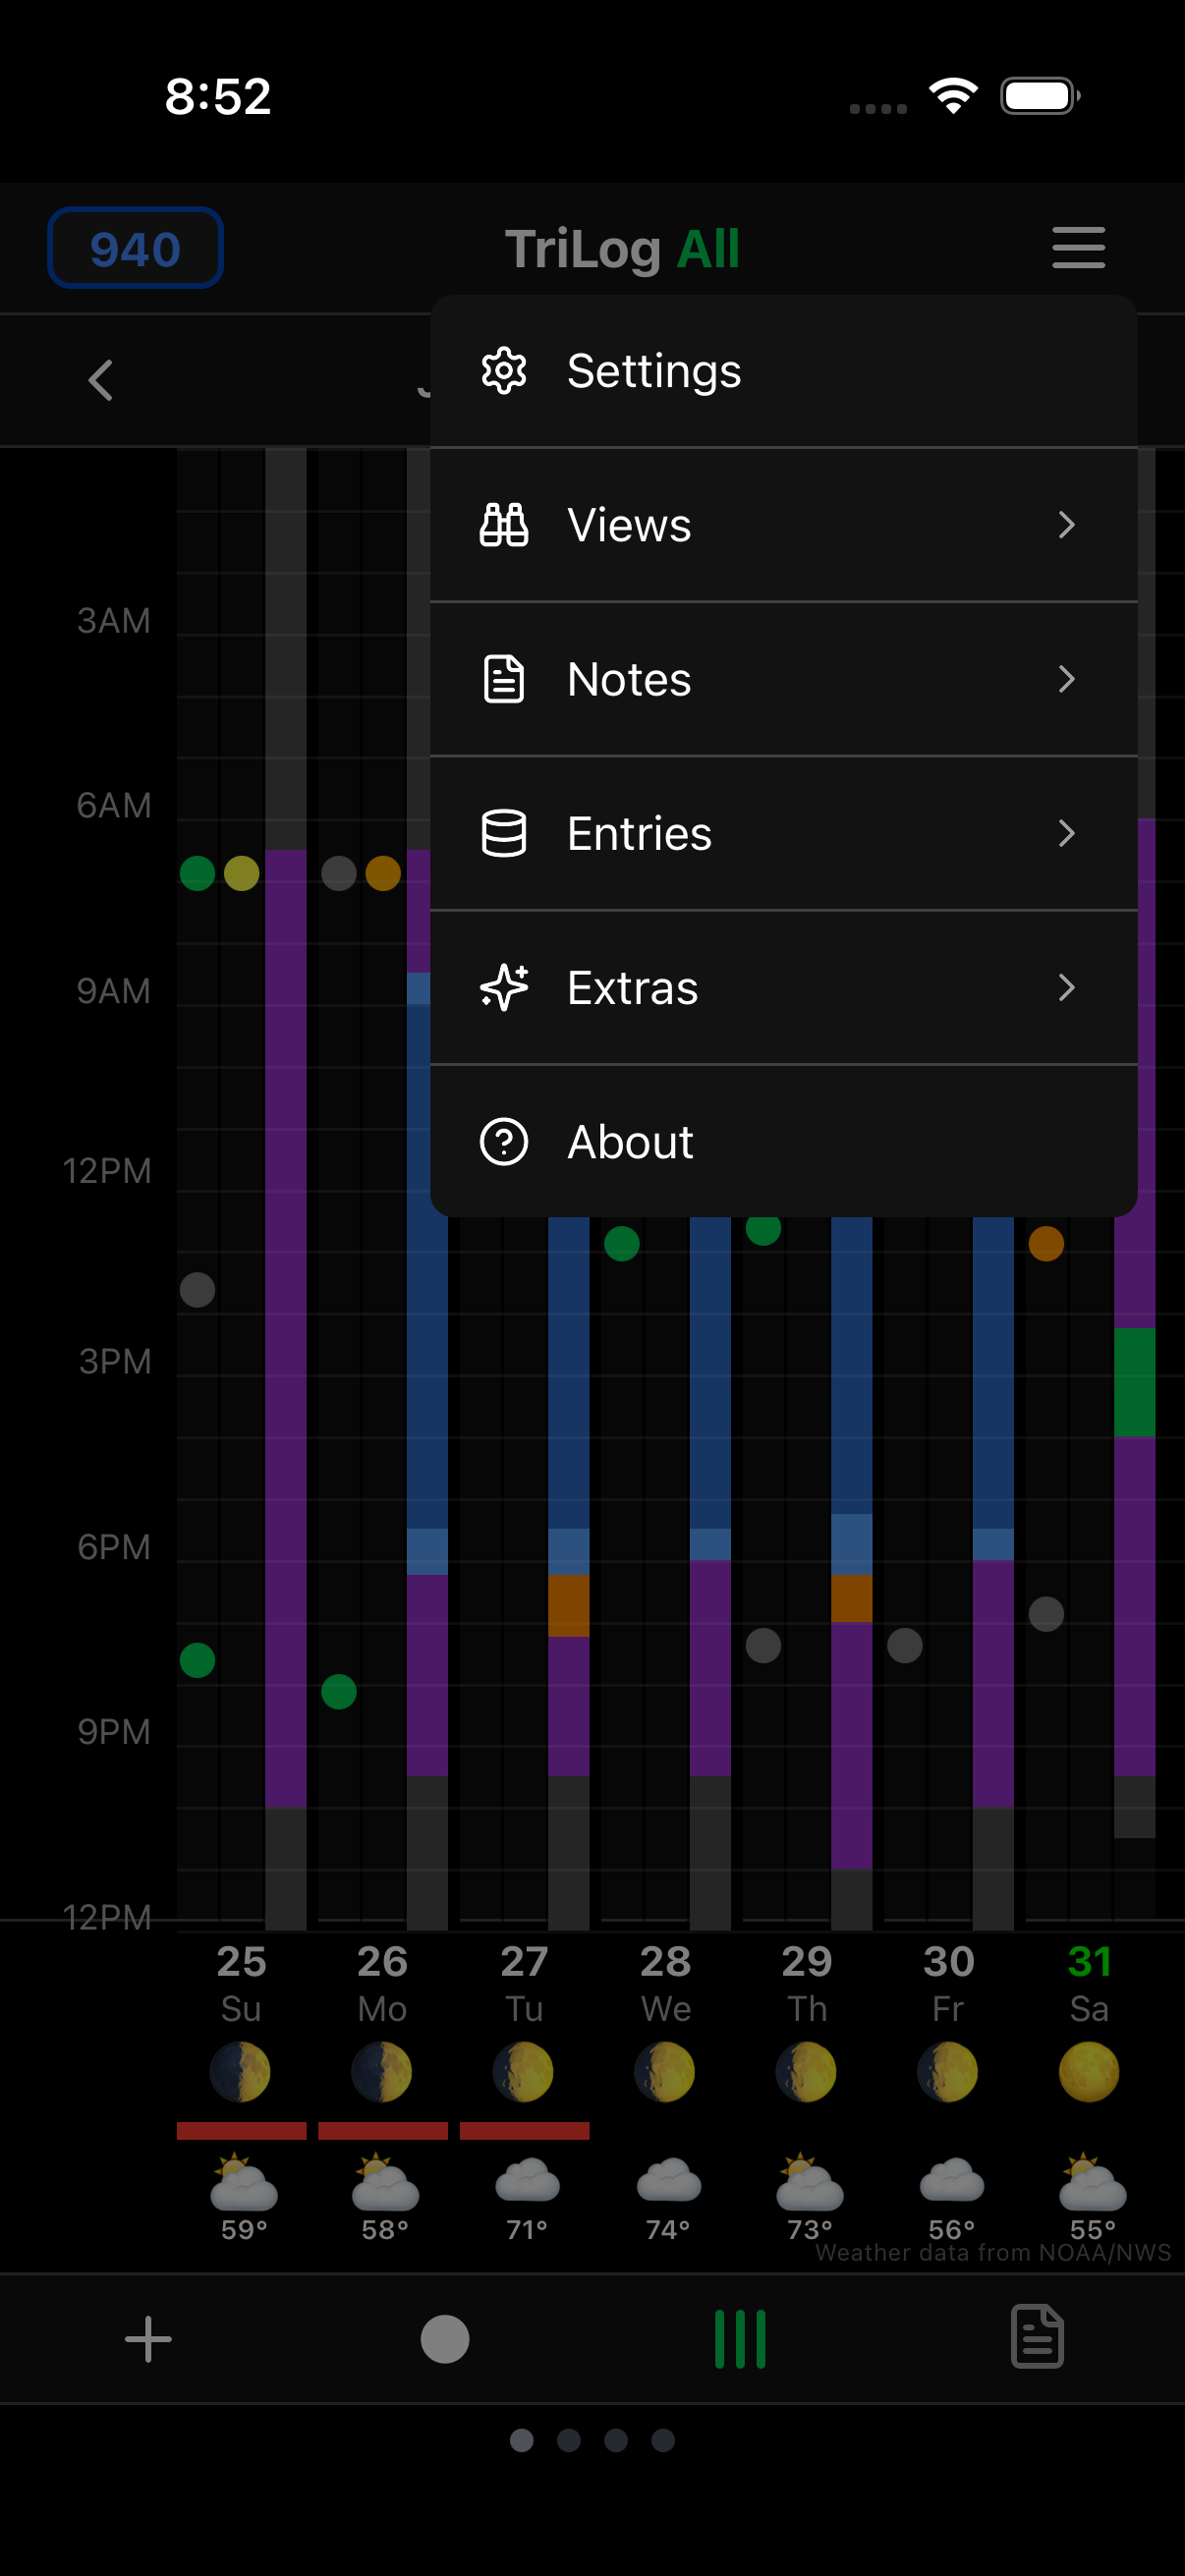
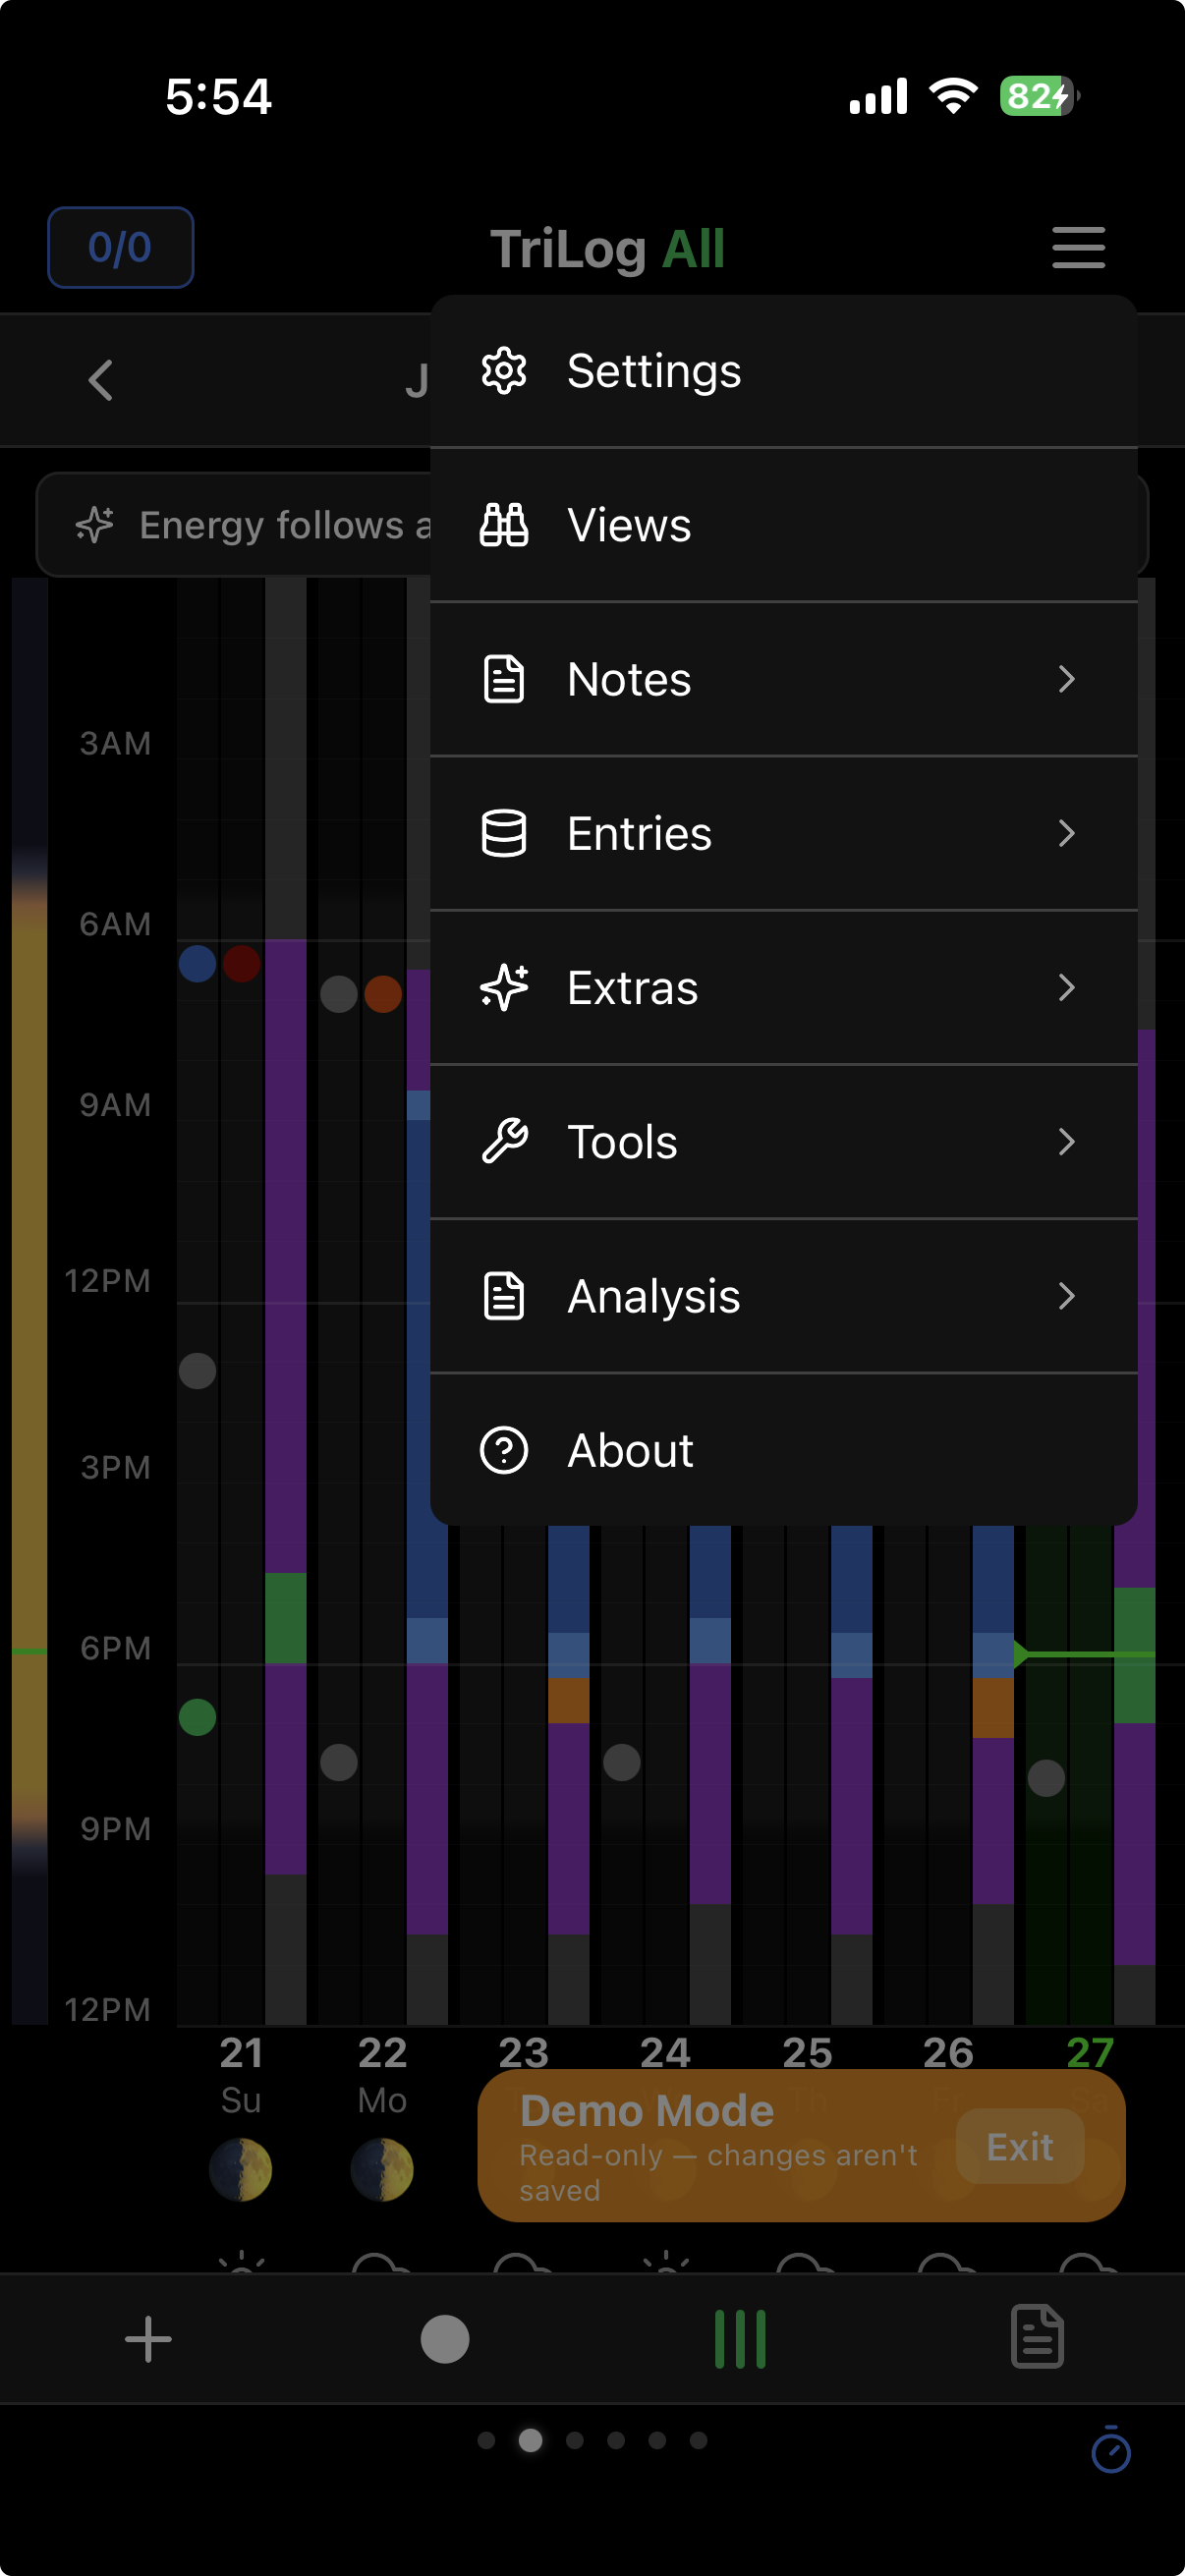
Document Analysis hub and refresh menu screenshots.
Charts and day ratings moved from swipe views to Menu → Analysis; add launcher, Patterns, Base Chart, and Day Ratings screenshots. Replace outdated app-menu image and remove superseded chart/ratings assets.

diff --git a/guide/viewing-patterns.md b/guide/viewing-patterns.md
@@ -34,80 +34,66 @@ Tap any row header to see that metric in more detail—a focused view showing ju
 
 ---
 
-## Charts View
+## Analysis
 
-Swipe further right to reach Charts. This view shows how you spend your time.
+Charts, auto-detected patterns, and deeper reports live in one place: **Menu → Analysis** (lines icon in the top-right, then **Analysis**). This replaced the old swipeable Charts and Ratings views.
 
-<img src="../images/charts.png" alt="Charts view" width="350">
+<img src="../images/analysis/analysis.png" alt="Analysis launcher with Basic and Advanced reports" width="350">
 
-### Activity Distribution
+The launcher lists reports as cards under **Basic** (free) and **Advanced** (Pro). Tap a card to open it; use the back arrow to return to the launcher.
 
-See how your time divides across activities:
-- Hours of sleep
-- Hours of work
-- Exercise time
-- Leisure time
-- And so on
+### Patterns
 
-The chart updates as you navigate between weeks.
+Auto-detected findings from your mood and energy history — weekly rhythms, time-of-day energy dips, mood/energy coupling, and similar. Surfaces after you have enough data; cards explain each pattern in plain language.
 
-### Chart Modes
+<img src="../images/analysis/patterns.png" alt="Patterns report with auto-detected findings" width="350">
 
-Toggle between different visualizations:
+### Base Chart
 
-**Bar Chart** — Activities as stacked or grouped bars
-**Pie Chart** — Activities as pie slices showing proportions
+Activity distribution and trends over time — stacked bar chart, mood/energy lines, and a **pie chart** showing how your hours actually divided across activities.
 
-<img src="../images/charts-pie.png" alt="Pie chart" width="350">
+<img src="../images/analysis/base-pie-chart.png" alt="Base Chart pie view of activity breakdown" width="350">
 
-### Time Periods
+Toggle between bar and pie modes. Switch between **7-day** and **21-day** windows (or navigate by week). Free.
 
-Switch between:
-- **7 days** — One week
-- **21 days** — Three weeks
+### Day Ratings Chart
 
-Longer periods show broader patterns; shorter periods show recent detail.
+Your daily subjective ratings — Mood, Energy, Thrive, and a calculated **Energy Events** score — as two side-by-side line charts, each covering four weeks (28 days, Sunday to Saturday).
 
----
-
-## Ratings Charts
-
-Swipe past Charts to reach Ratings Charts. This view shows your daily subjective ratings — Mood, Energy, Thrive, and a calculated Energy Events score — as two side-by-side line charts, each covering four weeks (28 days, Sunday to Saturday).
-
-### What You See
-
-Two vertical landscape charts:
-
-- **Left chart** — the older four-week period
-- **Right chart** — the more recent four-week period
-
-Each chart has a 0–5 y-axis on both sides, with day labels along the bottom.
-
-<img src="../images/ratings-all.png" alt="Ratings Charts with all ratings visible" width="400">
-
-### Four Toggles
-
-The bottom bar has two rows of toggles:
+**Four toggles** (two rows at the bottom):
 
 **Row 1:**
-- **Mood** — Stacked vertical bars per day, proportional to your mood distribution (upset, anxious, sad, neutral, happy). Each bar fills the full chart height so you can see the mood mix at a glance.
-- **Thrive** — Your daily "on" rating (1–5) — how present or aligned you felt. Shown as open green rings connected by a green line.
+- **Mood** — Stacked vertical bars per day, proportional to your mood distribution (upset, anxious, sad, neutral, happy).
+- **Thrive** — Your daily "on" rating (1–5) — how present or aligned you felt. Open green rings connected by a green line.
 
 **Row 2:**
-- **Day Energy** — The 1–5 energy rating you enter as a daily summary. Colored dots connected by a gray line, from dark red (1) to bright yellow (5).
-- **Energy Events** — A calculated weighted energy score that combines your individual energy entries with sleep activity throughout the day. Sleep hours count as 0. Waking hours use the most recent energy level (last observation carried forward). Hours before your first energy entry borrow that first level. The score is the average of all 24 hourly values, so it reflects both energy intensity and sleep duration.
+- **Day Energy** — The 1–5 energy rating from your daily summary. Colored dots connected by a gray line.
+- **Energy Events** — A calculated weighted energy score combining individual energy entries with sleep activity throughout the day (sleep hours = 0; waking hours use last observation carried forward).
 
-<img src="../images/ratings-energy-events.png" alt="Energy Events score" width="400">
+Tap a day for a tooltip with Energy, Thrive, and Energy Events. **View Notes** jumps to that day's notes.
 
-### Tooltips
+<img src="../images/analysis/day-ratings-with-cycles.png" alt="Day Ratings Chart with Mood, Energy, Thrive, and Energy Events enabled" width="400">
 
-Tap anywhere on a chart to select the nearest day. A tooltip appears showing the date, Energy, Thrive, and Energy Events score. Tap "View Notes" to jump to the Notes by Day modal for that date. Tap the tooltip or the same day again to dismiss it.
+Use the arrows at the top to move back and forward by four weeks.
 
-### Navigation
+### Day Ratings with Cycles
 
-Use the arrows at the top to move back and forward by four weeks. The date range label shows the full eight-week span covered by both charts.
+The same Day Ratings chart with your **menstrual cycle** overlaid as colored bands (requires cycle notes — log with `cy m` / `cy -m` prefixes or Menu → Extras → Cycles). Useful for spotting energy and mood shifts across your cycle.
 
-Enable in **Settings → Appearance → Ratings Charts View** (on by default).
+<img src="../images/analysis/day-energy-vs-cycles.png" alt="Day Ratings with cycle bands and Day Energy only" width="400">
+
+Toggle which ratings appear — e.g. show just **Day Energy** against cycle bands to isolate one signal.
+
+### Advanced reports (Pro)
+
+The **Advanced** section unlocks with Pro (or Demo Mode):
+
+- **Correlations** — which factors track with energy and mood (tap a cell to drill into Scatter)
+- **Best vs Worst Days** — what your highest- and lowest-energy days have in common
+- **Scatter** — plot any factor against energy or mood with a trendline
+- **Energy by Category** — average energy by workouts, alcohol, day of week, trackers, and more
+
+More screenshots for these reports are coming. Each card shows a readiness hint ("Needs more days") when there isn't enough data yet.
 
 ---
 
@@ -149,7 +135,7 @@ You might notice your energy consistently dips after lunch, or that weekends hav
 Exercise might precede better moods. Poor sleep might precede worse ones. Social time might correlate with happiness.
 
 ### Activity Balance
-The charts reveal how you actually spend time versus how you think you spend it. Many people are surprised by the numbers.
+The Base Chart (Menu → Analysis → Base Chart) reveals how you actually spend time versus how you think you spend it. Many people are surprised by the pie chart numbers.
 
 ### Cyclical Patterns
 Some patterns are weekly (Monday blues, Friday energy). Some are monthly. Some are seasonal. The longer you track, the more cycles become visible.

diff --git a/guide/the-grid.md b/guide/the-grid.md
@@ -67,15 +67,20 @@ TriLog works in both dark and light modes. The app respects your system preferen
 
 ## Other Views
 
-Swipe right from the main grid to access additional views:
+Swipe horizontally from the main grid to access additional **swipeable views**:
 
-- **Metrics Grid** — Daily measurements in rows
-- **Habits** — Daily habit completions
-- **Charts** — Activity distribution and trends
+- **Day Screen** (Pro, optional) — single-day dashboard
+- **Mood Chart** — the main weekly grid (default)
+- **Metrics Grid** — daily measurements in rows
+- **Trackers** (Pro) — custom tracker grid
+- **Habits** — daily habit completions
+- **Screen Time** (Pro) — hourly device usage
 
-Small dots at the bottom indicate which view you're on. Swipe between them or tap a dot to jump directly.
+Charts and ratings charts are **no longer swipeable views**. They moved to **Menu → Analysis** (see [Viewing Patterns](viewing-patterns.md#analysis)).
 
-<img src="../images/app-menu-views.png" alt="Menu views" width="350">
+Small dots at the bottom indicate which swipeable view you're on.
+
+<img src="../images/app-menu.png" alt="TriLog app menu with Analysis entry" width="350">
 
 ## Why This Design?
 

diff --git a/guide/pro-features.md b/guide/pro-features.md
@@ -118,6 +118,19 @@ Screen Time doesn't judge — it just puts the data side by side so patterns bec
 
 ---
 
+## Analysis (Advanced, Pro)
+
+**Menu → Analysis** opens a launcher of reports. **Basic** reports (Patterns, Base Chart, Day Ratings, Day Ratings with Cycles) are free. **Advanced** reports require Pro:
+
+- **Correlations** — which factors track with energy and mood
+- **Best vs Worst Days** — what high- and low-energy days have in common
+- **Scatter** — plot any factor against energy or mood
+- **Energy by Category** — average energy by workouts, alcohol, day of week, trackers, and more
+
+See [Viewing Patterns — Analysis](viewing-patterns.md#analysis) for screenshots and details.
+
+---
+
 ## Day View with Sun Clock
 
 Day View shows today's entries alongside an astronomical sun clock visualization. The sun clock displays sunrise, sunset, and the current position of the sun, giving your daily data a natural time context.

diff --git a/guide/settings.md b/guide/settings.md
@@ -22,8 +22,12 @@ Control how TriLog looks and what information displays.
 
 - **Trackers View** — Show/hide the Trackers grid (Pro)
 - **Habits View** — Show/hide the Habits grid
+- **Day Screen** — Show/hide the single-day dashboard (Pro)
+- **Screen Time** — Show/hide the Screen Time swipeable view (Pro)
 
-Toggle off views you don't use to simplify navigation.
+Charts and day-ratings are no longer swipeable views — they live under **Menu → Analysis**. The old Charts/Ratings appearance toggles were removed.
+
+Toggle off swipeable views you don't use to simplify navigation.
 
 ### Resting Heart Rate (Pro, iOS)
 

diff --git a/guide/index.md b/guide/index.md
@@ -39,7 +39,7 @@ Welcome to TriLog. This guide covers everything from basic tracking to advanced 
 ### Reviewing Your Data
 
 - **[Viewing Patterns](viewing-patterns.md)**
-  The Metrics grid, Charts view, and entry history. How to see what your data reveals.
+  The Metrics grid, Analysis reports (charts, patterns, day ratings), and entry history. How to see what your data reveals.
 
 - **[Habits](habits.md)**
   Daily habit tracking and building consistency over time.
@@ -79,6 +79,9 @@ Welcome to TriLog. This guide covers everything from basic tracking to advanced 
 | Log intake (Pro) | Add (+) → Intake tab, or Day End → Day Intake |
 | Manage intake items | Menu → Extras → Intake Library (Pro) |
 | Review intake history | Menu → Entries → Intake (Pro) |
+| See charts & patterns | Menu → Analysis |
+| Open activity pie chart | Menu → Analysis → Base Chart |
+| See day ratings trends | Menu → Analysis → Day Ratings Chart |
 | Backup your data | Menu → Settings → Backup |
 
 ---

diff --git a/README.md b/README.md
@@ -60,7 +60,7 @@ New to TriLog? Start with the [User Guide](guide/index.md).
 - [Single Metric View](guide/single-metric-view.md) — Three weeks at a glance
 - [Notes](guide/notes.md) — Adding context to your data
 - [Day Launch & Day End](guide/day-routines.md) — Morning and evening routines
-- [Viewing Patterns](guide/viewing-patterns.md) — Metrics, charts, ratings, and history
+- [Viewing Patterns](guide/viewing-patterns.md) — Metrics, Analysis reports, and history
 - [Habits](guide/habits.md) — Daily habit tracking
 - [Settings](guide/settings.md) — Customization and backup
 - [Pro Features](guide/pro-features.md) — Quick Track, Polling, Screen Time, Intake, Pomodoro, and more